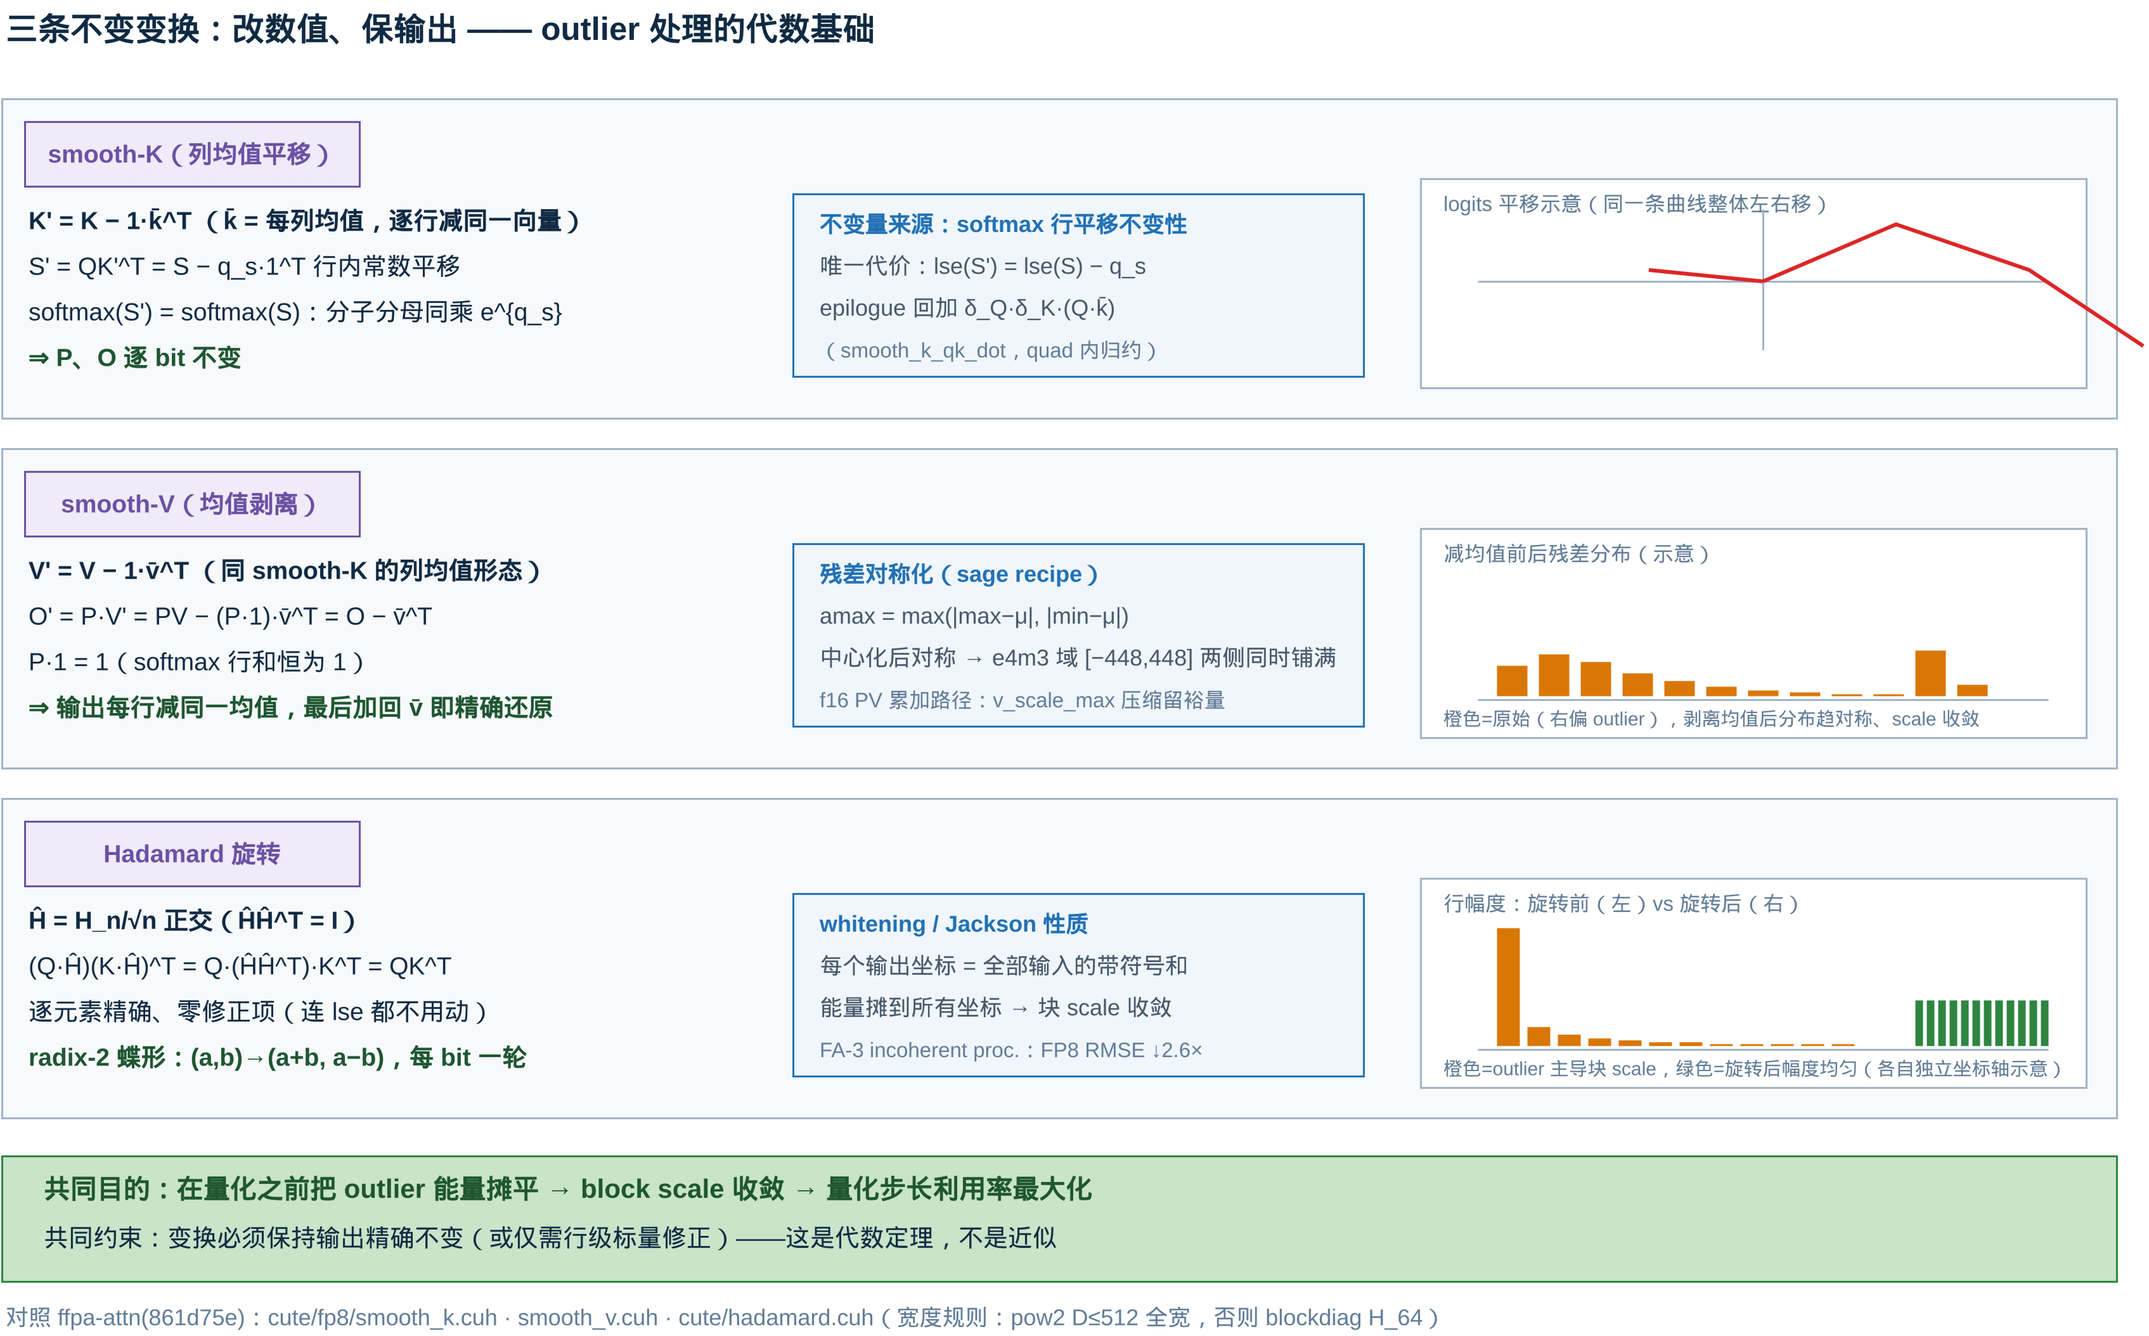
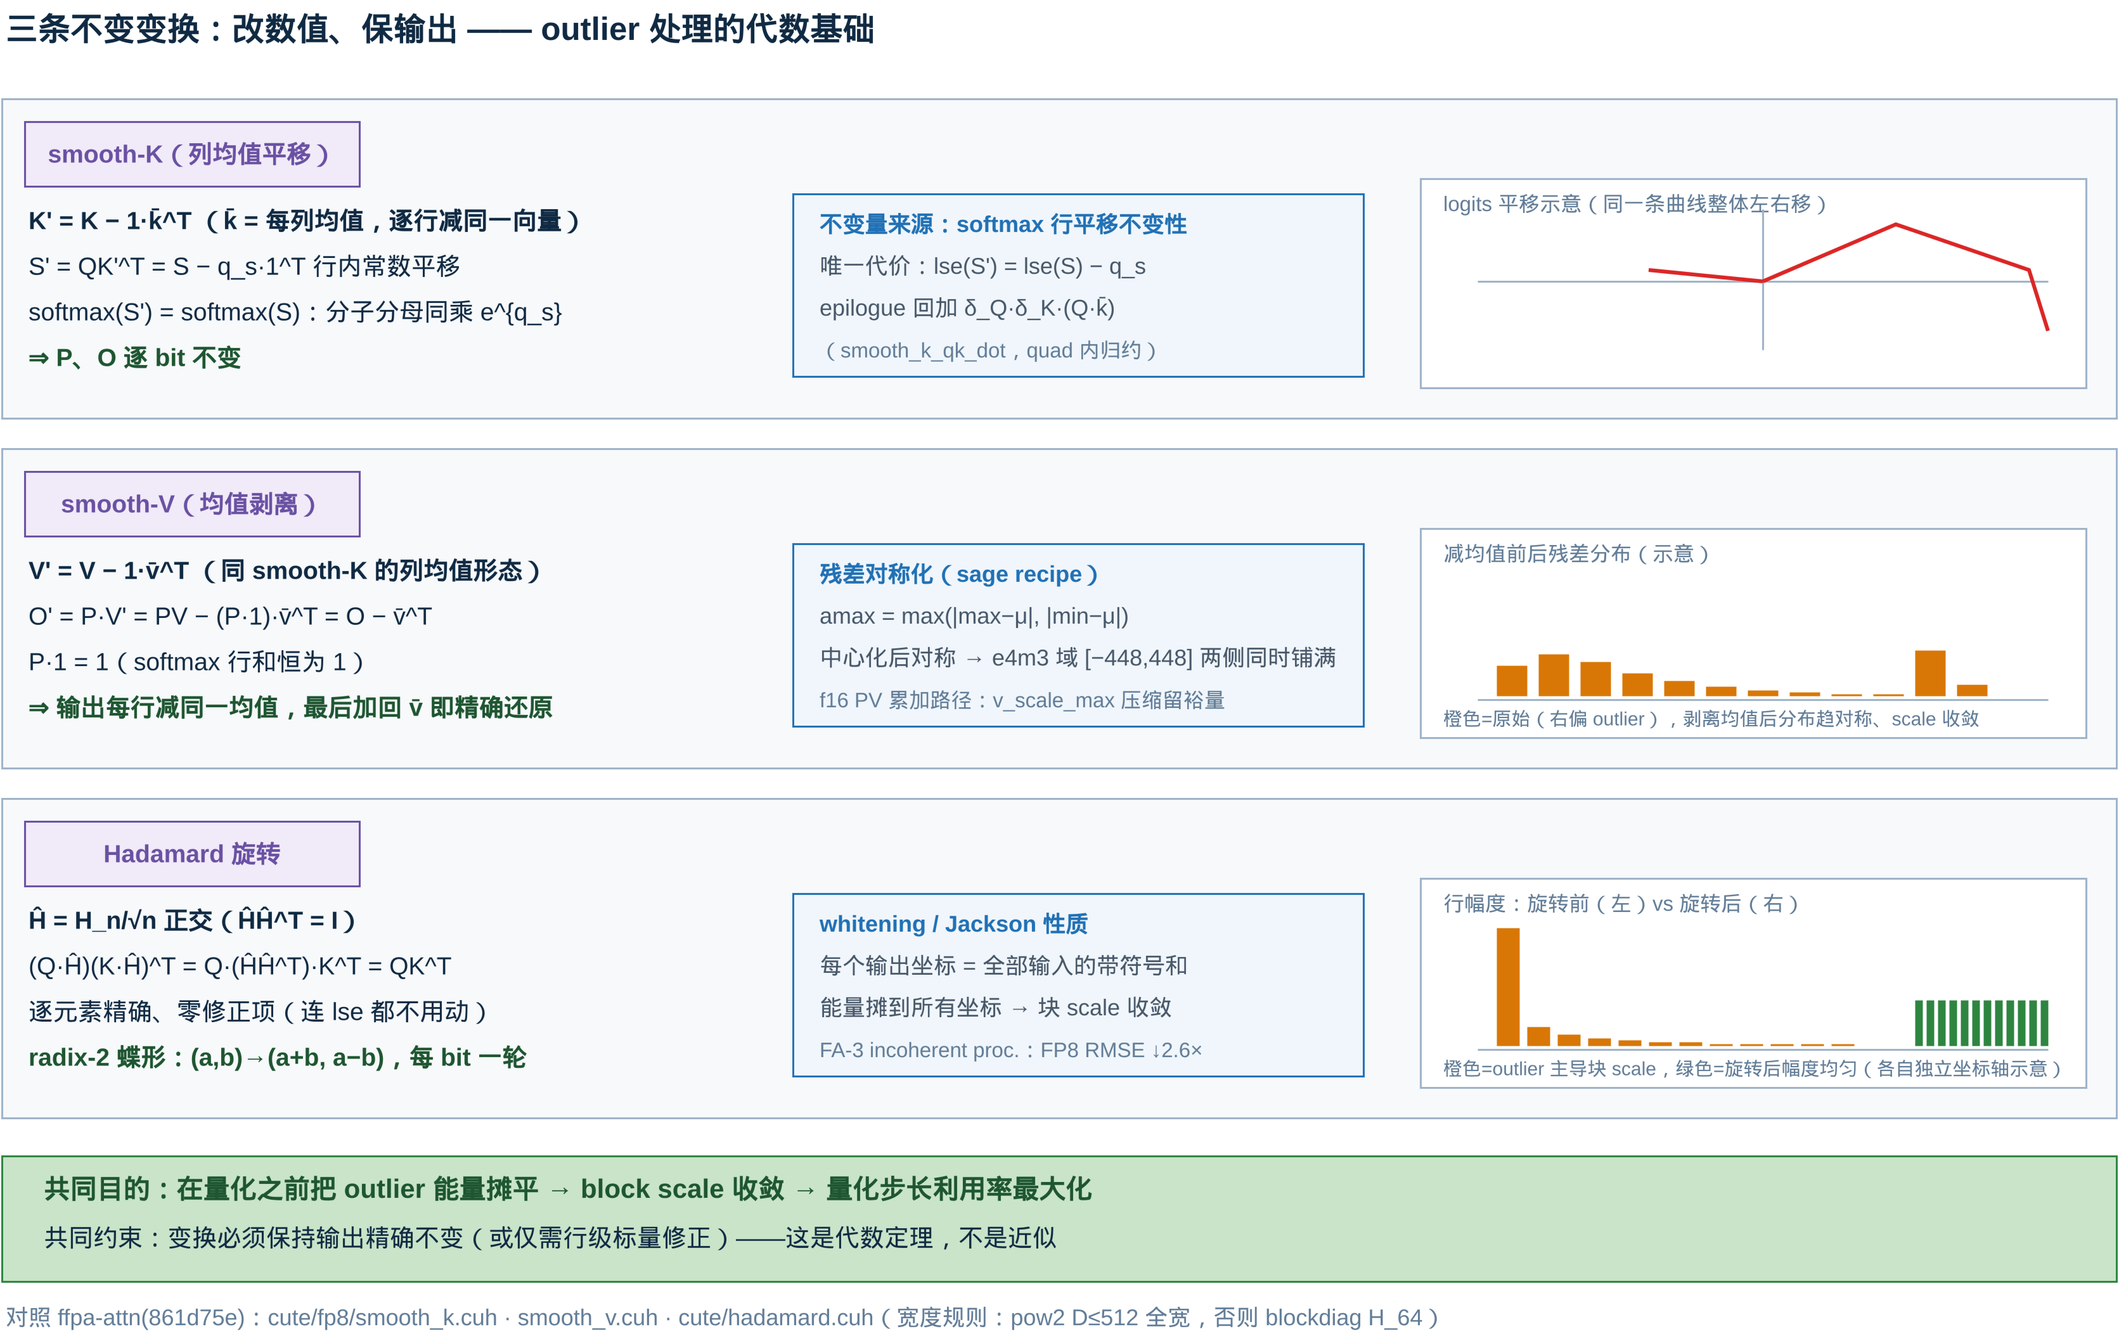
book: Part V 图示节顺序/空白/表 34.x 崩坏/折线越界四项修复
1. 图示节错序根治（ch28-ch33 六章）：加载 placeins，性能分析节前加
   \FloatBarrier——图仍可浮动（无页底大片空白），但下一节内容被屏障
   挡住、只能从图后开始（29.5 文字与 29.6 不再混排，34.5/34.6 同）。
2. 图示节补导读文字（六章）：结合本章小节与各图内容的读图指引，
   填充节标题下空白；ch28 顺带修正错章引用（28.3.x → \ref 的 29.3.x）。
3. 表 34.1/34.2 崩坏修复：每格由单行混排改 shortstack 两行堆叠
   （上行 FFPA/SDPA ms、下行 speedup+allclose），列对齐清晰。
4. 图 29.2 折线越界修复：smooth-K 迷你坐标曲线末点 (1150,·) 超出
   面板右界 (x≤1120)，gen.py 收至 (1100,·) 后重导出 PNG。
5. ch33 四图 [htbp]→[!htbp]：放宽 bottomfraction 限制，图 34.1
   就地填充 402 页图示节（消除 46% 页底空白）。

验收：xelatex 两遍 0 error / 0 Overfull / 426 页；402 页（34.5 文字+
图 34.1 满页）、362 页（图 29.2 折线界内）、405/406 页（两表对齐）
逐页渲染确认；Part V 区间低填充页均为章末/代码页正常留白。

diff --git a/kernels/interview/book/chapters/ch33-fp8-fp4-bench.tex b/kernels/interview/book/chapters/ch33-fp8-fp4-bench.tex
@@ -183,7 +183,16 @@ preset。knob 的边际效应见 33.6.3。
 
 \section{图示}
 
-\begin{figure}[htbp]
+四张图分两个数据源。图~\ref{fig:33-5090-fp8} 与图~\ref{fig:33-5090-fp4}
+是 ffpa-attn README 引用的 RTX 5090 结果（B1 H64 N=16384 D=128）：fp8 对
+Sage2/SDPA 的领先与 fp4 的 2.60x 满血区，用于建立「能到多少」的量级预期。
+图~\ref{fig:33-pro5000-fp8} 与图~\ref{fig:33-pro5000-fp4} 是本机 PRO 5000
+的复测（H32/Hkv8，bench 脚本默认 preset）：fp8 与 Sage 总体打平、互有
+胜负，fp4 全场景领先——绝对 TFLOPS 比 5090 低 $\sim$16\%（fp8）/$\sim$35\%
+（fp4），但形态一致。读图时记住本章动机节的三陷阱：参照系、preset 与
+GPU 状态是三个最常见的失真源。
+
+\begin{figure}[!htbp]
   \centering
   \includegraphics[width=0.98\textwidth]{figures/ffpa/fp8/ffpa_speedup_nvidia-geforce-rtx-5090_B1_H64_N16384_D128_T.png}
   \caption{RTX 5090 上的 fp8 speedup（D=128，B1 H64 N=16384；
@@ -191,7 +200,7 @@ preset。knob 的边际效应见 33.6.3。
   ffpa-attn README，\texttt{bench\_fp8.py} 口径。}\label{fig:33-5090-fp8}
 \end{figure}
 
-\begin{figure}[htbp]
+\begin{figure}[!htbp]
   \centering
   \includegraphics[width=0.98\textwidth]{figures/ffpa/fp4/ffpa_speedup_nvidia-geforce-rtx-5090_B1_H64_N16384_D128_T.png}
   \caption{RTX 5090 上的 fp4 speedup（同形状；FFPA-FP4 $\approx$804T
@@ -199,7 +208,7 @@ preset。knob 的边际效应见 33.6.3。
   图源同上。}\label{fig:33-5090-fp4}
 \end{figure}
 
-\begin{figure}[htbp]
+\begin{figure}[!htbp]
   \centering
   \includegraphics[width=0.98\textwidth]{figures/fig-33-3-pro5000-fp8-tflops.png}
   \caption{本机 PRO 5000 复测（fp8，D=128 fp16，H32/Hkv8，
@@ -209,7 +218,7 @@ preset。knob 的边际效应见 33.6.3。
   TFLOPS 低 $\sim$16\%（SM 数与功耗包络差异）。}\label{fig:33-pro5000-fp8}
 \end{figure}
 
-\begin{figure}[htbp]
+\begin{figure}[!htbp]
   \centering
   \includegraphics[width=0.98\textwidth]{figures/fig-33-4-pro5000-fp4-tflops.png}
   \caption{本机 PRO 5000 复测（fp4，同形状，\texttt{bench\_fp4.py}，
@@ -218,12 +227,14 @@ preset。knob 的边际效应见 33.6.3。
   hybrid 抑制）而 FFPA-FP4 为 0.14。}\label{fig:33-pro5000-fp4}
 \end{figure}
 
+\FloatBarrier
+
 \section{性能分析}
 
 \subsection{fp8 矩阵：D 的三段形态}
 
 表~\ref{tab:33-fp8-matrix} 是 CLI 矩阵实测（PRO 5000，fp16 行；
-每格「FFPA/SDPA ms、speedup、allclose」）：
+每格上行为 FFPA/SDPA ms，下行为 speedup 与 allclose）：
 
 \begin{table}[htbp]
   \centering\small
@@ -233,10 +244,10 @@ preset。knob 的边际效应见 33.6.3。
     \toprule
     task & D=64 & D=128 & D=256 & D=512$^{\dagger}$ \\
     \midrule
-    self  & 1.91/2.40\;1.26x\,\checkmark & 3.01/5.12\;1.70x\,\checkmark & 8.13/10.55\;1.30x\,\checkmark & 21.71/64.72\;2.98x\,\checkmark \\
-    causal& 1.17/1.35\;1.16x\,\checkmark & 1.89/2.70\;1.43x\,\checkmark & 4.73/5.41\;1.14x\,\checkmark & 12.82/32.91\;2.57x\,$\ast$ \\
-    gqa   & 1.79/2.40\;1.35x\,\checkmark & 2.81/5.15\;1.83x\,\checkmark & 7.34/10.62\;1.45x\,\checkmark & 20.46/64.73\;3.16x\,\checkmark \\
-    cross & 0.39/0.40\;1.01x\,\checkmark & 0.68/0.82\;1.21x\,\checkmark & 1.83/1.39\;0.76x\,\checkmark & 4.59/8.73\;1.90x\,\checkmark \\
+    self  & \shortstack[c]{1.91/2.40\\1.26x\,\checkmark} & \shortstack[c]{3.01/5.12\\1.70x\,\checkmark} & \shortstack[c]{8.13/10.55\\1.30x\,\checkmark} & \shortstack[c]{21.71/64.72\\2.98x\,\checkmark} \\
+    causal& \shortstack[c]{1.17/1.35\\1.16x\,\checkmark} & \shortstack[c]{1.89/2.70\\1.43x\,\checkmark} & \shortstack[c]{4.73/5.41\\1.14x\,\checkmark} & \shortstack[c]{12.82/32.91\\2.57x\,$\ast$} \\
+    gqa   & \shortstack[c]{1.79/2.40\\1.35x\,\checkmark} & \shortstack[c]{2.81/5.15\\1.83x\,\checkmark} & \shortstack[c]{7.34/10.62\\1.45x\,\checkmark} & \shortstack[c]{20.46/64.73\\3.16x\,\checkmark} \\
+    cross & \shortstack[c]{0.39/0.40\\1.01x\,\checkmark} & \shortstack[c]{0.68/0.82\\1.21x\,\checkmark} & \shortstack[c]{1.83/1.39\\0.76x\,\checkmark} & \shortstack[c]{4.59/8.73\\1.90x\,\checkmark} \\
     \bottomrule
   \end{tabular}
   \footnotesize $\dagger$ D=512 参照为 SDPA-MATH（FA2 只覆盖
@@ -270,10 +281,10 @@ preset。knob 的边际效应见 33.6.3。
     \toprule
     task & D=64 & D=128 & D=192 & D=256 \\
     \midrule
-    self  & 1.61/2.41\;1.49x\,\checkmark & 2.51/5.12\;2.04x\,\checkmark & 3.47/7.20\;2.08x\,\checkmark & 4.96/10.47\;2.11x\,\checkmark \\
-    causal& 1.07/1.36\;1.26x\,\checkmark & 1.67/2.69\;1.61x\,\checkmark & 2.40/3.92\;1.63x\,\checkmark & 3.54/5.30\;1.50x\,\checkmark \\
-    gqa   & 1.53/2.41\;1.58x\,\checkmark & 2.32/5.13\;2.21x\,\checkmark & 3.17/7.26\;2.29x\,\checkmark & 4.50/10.50\;2.33x\,\checkmark \\
-    cross & 0.36/0.40\;1.10x\,\checkmark & 0.68/0.82\;1.21x\,\checkmark & 1.02/1.16\;1.14x\,\checkmark & 1.41/1.40\;0.99x\,\checkmark \\
+    self  & \shortstack[c]{1.61/2.41\\1.49x\,\checkmark} & \shortstack[c]{2.51/5.12\\2.04x\,\checkmark} & \shortstack[c]{3.47/7.20\\2.08x\,\checkmark} & \shortstack[c]{4.96/10.47\\2.11x\,\checkmark} \\
+    causal& \shortstack[c]{1.07/1.36\\1.26x\,\checkmark} & \shortstack[c]{1.67/2.69\\1.61x\,\checkmark} & \shortstack[c]{2.40/3.92\\1.63x\,\checkmark} & \shortstack[c]{3.54/5.30\\1.50x\,\checkmark} \\
+    gqa   & \shortstack[c]{1.53/2.41\\1.58x\,\checkmark} & \shortstack[c]{2.32/5.13\\2.21x\,\checkmark} & \shortstack[c]{3.17/7.26\\2.29x\,\checkmark} & \shortstack[c]{4.50/10.50\\2.33x\,\checkmark} \\
+    cross & \shortstack[c]{0.36/0.40\\1.10x\,\checkmark} & \shortstack[c]{0.68/0.82\\1.21x\,\checkmark} & \shortstack[c]{1.02/1.16\\1.14x\,\checkmark} & \shortstack[c]{1.41/1.40\\0.99x\,\checkmark} \\
     \bottomrule
   \end{tabular}
 \end{table}

diff --git a/kernels/interview/book/chapters/ch31-fp4-nvfp4-quant.tex b/kernels/interview/book/chapters/ch31-fp4-nvfp4-quant.tex
@@ -293,12 +293,23 @@ TMA 访问越界直接 IMA（\texttt{sm\_120/persist\_d.cuh} L48--53 注
 
 \section{图示}
 
+三张图自底向上覆盖 fp4 的三个层面。图~\ref{fig:31-1} 是数据格式层：
+NVFP4 的 $1\times16$ microscaling 块——e2m1 位域配 ue4m3 块尺度，
+$s_{block}=\mathrm{amax}/6$ 除进数据、乘回发生在 blockscale MMA 内。
+图~\ref{fig:31-2} 是工程层：fp4 前处理链的数据流，$D\le128$ 走 fused
+单 launch 路径，$\bar k$/$q_m$ 均值先行（它们是量化 kernel 的输入
+bias），hadamard 下的 $q_m^{rot}$ 在 fused kernel 内顺带产出。
+图~\ref{fig:31-3} 是布局层：kv\_perm32 的 32 列窗口双射——置换让 QK 的
+C fragment 列直接匹配 PV 的 A 操作数布局，代价是 mask/bias 必须经
+$\pi^{-1}$ 回到原始 token 位置判定。
+
 \begin{figure}[htbp]
   \centering
   \includegraphics[width=0.98\textwidth]{figures/fig-31-1-nvfp4-block.png}
   \caption{NVFP4 的 $1\times16$ microscaling 块：e2m1 数据位域与
   ue4m3 块尺度。$s_{block}=\mathrm{amax}/6$ 除进数据、乘回在
   blockscale MMA 内逐块完成。}
+  \label{fig:31-1}
 \end{figure}
 
 \begin{figure}[htbp]
@@ -307,6 +318,7 @@ TMA 访问越界直接 IMA（\texttt{sm\_120/persist\_d.cuh} L48--53 注
   \caption{fp4 前处理链数据流（$D\le128$ 走 fused 单 launch 路径）：
   $\bar k$/$q_m$ 均值先行的原因是它们是量化 kernel 的输入 bias；
   hadamard 下 $q_m^{rot}$ 在 fused kernel 内顺带产出。}
+  \label{fig:31-2}
 \end{figure}
 
 \begin{figure}[htbp]
@@ -314,8 +326,11 @@ TMA 访问越界直接 IMA（\texttt{sm\_120/persist\_d.cuh} L48--53 注
   \includegraphics[width=0.98\textwidth]{figures/fig-31-3-kv-perm32.png}
   \caption{kv\_perm32 的 32 列窗口双射与 perm-aware masking。置换让
   QK 的 C fragment 列直接匹配 PV 的 A 操作数布局；mask/bias 必须经
+  \label{fig:31-3}
   $\pi^{-1}$ 回到原始 token 位置判定。}
 \end{figure}
+
+\FloatBarrier
 
 \section{性能分析}
 

diff --git a/kernels/interview/book/chapters/ch32-fp4-persist-d.tex b/kernels/interview/book/chapters/ch32-fp4-persist-d.tex
@@ -219,12 +219,22 @@ PV 的 C fragment 每 lane 持数不同（头注释 L44--46）。
 
 \section{图示}
 
+两张图分别对应本章的数学与实现。图~\ref{fig:32-1} 是两级 P 量化的域
+拉伸：online softmax 使第一级退化为全局常数 $1/2688$ 并折进 exp2
+shift；第二级按 per-16 组 absmax 铺满 ue4m3 域，组归一化同样折进
+exp2 参数——两级 scale 在数据通路里都不占显式乘法。图~\ref{fig:32-2}
+是主循环数据流：128T producer 与 256T consumer 围绕每个 kv tile 的
+五步（$\Delta S$ 预载 $\to$ QK $\to$ masking $\to$ 融合 softmax/P
+量化 $\to$ PV），barrier 永不 re-init，grid 由 runtime 定 persistent
+或 block-per-work。
+
 \begin{figure}[htbp]
   \centering
   \includegraphics[width=0.98\textwidth]{figures/fig-32-1-two-level-p.png}
   \caption{两级 P 量化的域拉伸：online softmax 使第一级退化为全局常数
   $1/2688$ 并折进 exp2 shift；第二级 per-16 组 absmax 铺满 ue4m3 域，
   组归一化同样折进 exp2 参数。}
+  \label{fig:32-1}
 \end{figure}
 
 \begin{figure}[htbp]
@@ -234,7 +244,10 @@ PV 的 C fragment 每 lane 持数不同（头注释 L44--46）。
   每 kv tile 的五步（$\Delta S$ 预载 $\to$ QK $\to$ masking $\to$ 融合
   softmax/P 量化 $\to$ PV），barrier 永不 re-init，grid 由 runtime 定
   persistent 或 block-per-work。}
+  \label{fig:32-2}
 \end{figure}
+
+\FloatBarrier
 
 \section{性能分析}
 

diff --git a/kernels/interview/book/chapters/ch28-fp8-quant-aux.tex b/kernels/interview/book/chapters/ch28-fp8-quant-aux.tex
@@ -499,6 +499,16 @@ $kWhtWidth$ 列（lane $\times$ $kVec$），无需跨 warp 通信；$1/\sqrt{n}$
 
 \section{图示}
 
+本章的两张图分工明确。图~\ref{fig:28-pipeline} 是前处理链的总地图：三条
+泳道（Q/K/V）从 fp16 输入出发，先取统计量（块 amax、两阶段列均值），再经
+各自的变换（smooth-K/$V$、WHT 旋转），汇入量化 kernel 后输出 fp8 数据与
+scale workspace（\texttt{cpu\_scales} 与 per-16 对齐的布局）；把它与
+第~\ref{ch:29}~章的 persist-D 数据通路图叠起来，就是 fp8 attention 的完整
+字节旅程。图~\ref{fig:28-invariants} 把~\ref{sec:28-smk}--\ref{sec:28-wht}~节
+的三条不变变换定理画成一页速查：smooth-K 改 logits 不改概率、smooth-V 改
+$V$ 不改 $O$、WHT 两端同乘正交阵——右侧的 outlier 幅度示意给出变换前后
+块 scale 的收敛对比。
+
 \begin{figure}[htbp]
   \centering
   \includegraphics[width=0.98\textwidth]{figures/fig-28-1-quant-pipeline.png}
@@ -517,9 +527,7 @@ $kWhtWidth$ 列（lane $\times$ $kVec$），无需跨 warp 通信；$1/\sqrt{n}$
   \label{fig:28-invariants}
 \end{figure}
 
-图~\ref{fig:28-pipeline} 是本章的总地图：把它与第~\ref{ch:29}~章的 persist-D 数据
-通路图叠起来，就是 fp8 attention 的完整字节旅程。图~\ref{fig:28-invariants} 把
-28.3.1--28.3.3~节的三条定理画成一页速查。
+\FloatBarrier
 
 \section{性能分析}
 

diff --git a/kernels/interview/book/chapters/ch29-fp8-persist-d.tex b/kernels/interview/book/chapters/ch29-fp8-persist-d.tex
@@ -353,6 +353,16 @@ NEVER run against an unpermuted V\^{}T}——配对由 launcher 的单一
 
 \section{图示}
 
+三张图对应本章的三条主线。图~\ref{fig:29-scale-folding} 是数学层的总账：
+scale 从「显式乘法」变成「折叠」——$\delta_Q\delta_K$ 折进 exp2 系数、
+$v_s$ 在 P 的发射域消去、$p_{scale}$ 收在 epilogue，除 round() 外不引入
+任何额外误差源。图~\ref{fig:29-persist-d-ws} 是这套数学的宿主结构：
+128 producer + 256 consumer 的 warp specialization、\texttt{setmaxnreg}
+32/232 的寄存器再分配、Q 的 s2r 常驻与 K 的 stage-0 槽位轮转，最后经
+STSM + TMA 输出。图~\ref{fig:29-reorg-free} 则是 epilogue 侧的布局技巧：
+跨 lane 重排（16 条 SHFL）与就地打包 + $V^{\top}$ 列置换（4 条 PRMT、
+零 SHFL）的对照——归约轴双射不变性保证两者精确等价。
+
 \begin{figure}[htbp]
   \centering
   \includegraphics[width=0.98\textwidth]{figures/fig-29-1-scale-folding.png}
@@ -376,6 +386,8 @@ NEVER run against an unpermuted V\^{}T}——配对由 launcher 的单一
   列置换（4 PRMT、零 SHFL），归约轴双射不变性保证精确等价。}
   \label{fig:29-reorg-free}
 \end{figure}
+
+\FloatBarrier
 
 \section{性能分析}
 

diff --git a/kernels/interview/book/chapters/ch30-fp8-split-d-m4n2.tex b/kernels/interview/book/chapters/ch30-fp8-split-d-m4n2.tex
@@ -307,6 +307,14 @@ m4n2 的 occupancy 已被 255 regs 锁死在 1 CTA，加深 stage 没有 occupan
 
 \section{图示}
 
+图~\ref{fig:30-walls} 是全章的路线图：大 $D$ 的两堵墙——smem 随 $D$
+平方膨胀、per-thread 的 $O$ 寄存器随 $D$ 线性增长——分别由 split-D
+（chunk 流水，smem 与 $D$ 解耦）与 M4N2（$N_w=2$ 把每线程 $O$ 从 $D/2$
+减到 $D/4$）拆掉，$D=768$ 是两者的实测交叉点，dispatch 据此三分路由。
+图~\ref{fig:30-m4n2} 深入寄存器墙解法的内部：$(4,2,1)$ atom 的线程-值
+布局，以及跨 N-warp softmax 的单 barrier 协议——max 段与 sum 段分置
+\texttt{smem\_exchange} 防 RAW，sum 的发布搭 P roundtrip barrier 的便车。
+
 \begin{figure}[htbp]
   \centering
   \includegraphics[width=0.98\textwidth]{figures/fig-30-1-split-d-walls.png}
@@ -324,6 +332,8 @@ m4n2 的 occupancy 已被 255 regs 锁死在 1 CTA，加深 stage 没有 occupan
   发布搭 P roundtrip barrier 的便车。}
   \label{fig:30-m4n2}
 \end{figure}
+
+\FloatBarrier
 
 \section{性能分析}
 

diff --git a/kernels/interview/book/figures/drawio/fig-28-2-invariants/gen.py b/kernels/interview/book/figures/drawio/fig-28-2-invariants/gen.py
@@ -65,7 +65,7 @@ f.box(770, y1 + 42, 350, 110, "", fill="#ffffff", stroke=GRAY)
 f.text(780, y1 + 46, 330, 18, "logits 平移示意（同一条曲线整体左右移）", fs=11.5, fc="#627d98")
 f.line([(800, y1 + 96), (1100, y1 + 96)], color=GRAY, width=1.5, arrow_end=0)
 f.line([(950, y1 + 58), (950, y1 + 132)], color=GRAY, width=1.5, arrow_end=0)
-f.line([(950, y1 + 96), (1020, y1 + 66), (1090, y1 + 90), (1150, y1 + 130)], color=RED, width=2, arrow_end=0)
+f.line([(950, y1 + 96), (1020, y1 + 66), (1090, y1 + 90), (1100, y1 + 122)], color=RED, width=2, arrow_end=0)
 f.line([(890, y1 + 90), (950, y1 + 96)], color=RED, width=2, arrow_end=0)
 
 # ================= 泳道 2：smooth-V =================

diff --git a/kernels/interview/book/book.tex b/kernels/interview/book/book.tex
@@ -6,6 +6,7 @@
 \usepackage[unicode,bookmarksnumbered,colorlinks,linkcolor=vscKeyword,citecolor=vscKeyword,urlcolor=vscEmphasis]{hyperref}
 \usepackage{xurl}  % 参考文献长 URL 任意位置断行，压制脚注/itemize 行溢出
 \usepackage{float}  % [H] 强制图就地放置：放不下则标题+图整体下移到下一页，避免图文错乱
+\usepackage{placeins}  % \FloatBarrier：图示节末尾设屏障，保证下一节内容不跑到图前
 
 \title{LeetCUDA：CUDA Kernel 优化之路\\{\large 从编程模型到 CuTe 与 FlashAttention}}
 \author{LeetCUDA Project}
